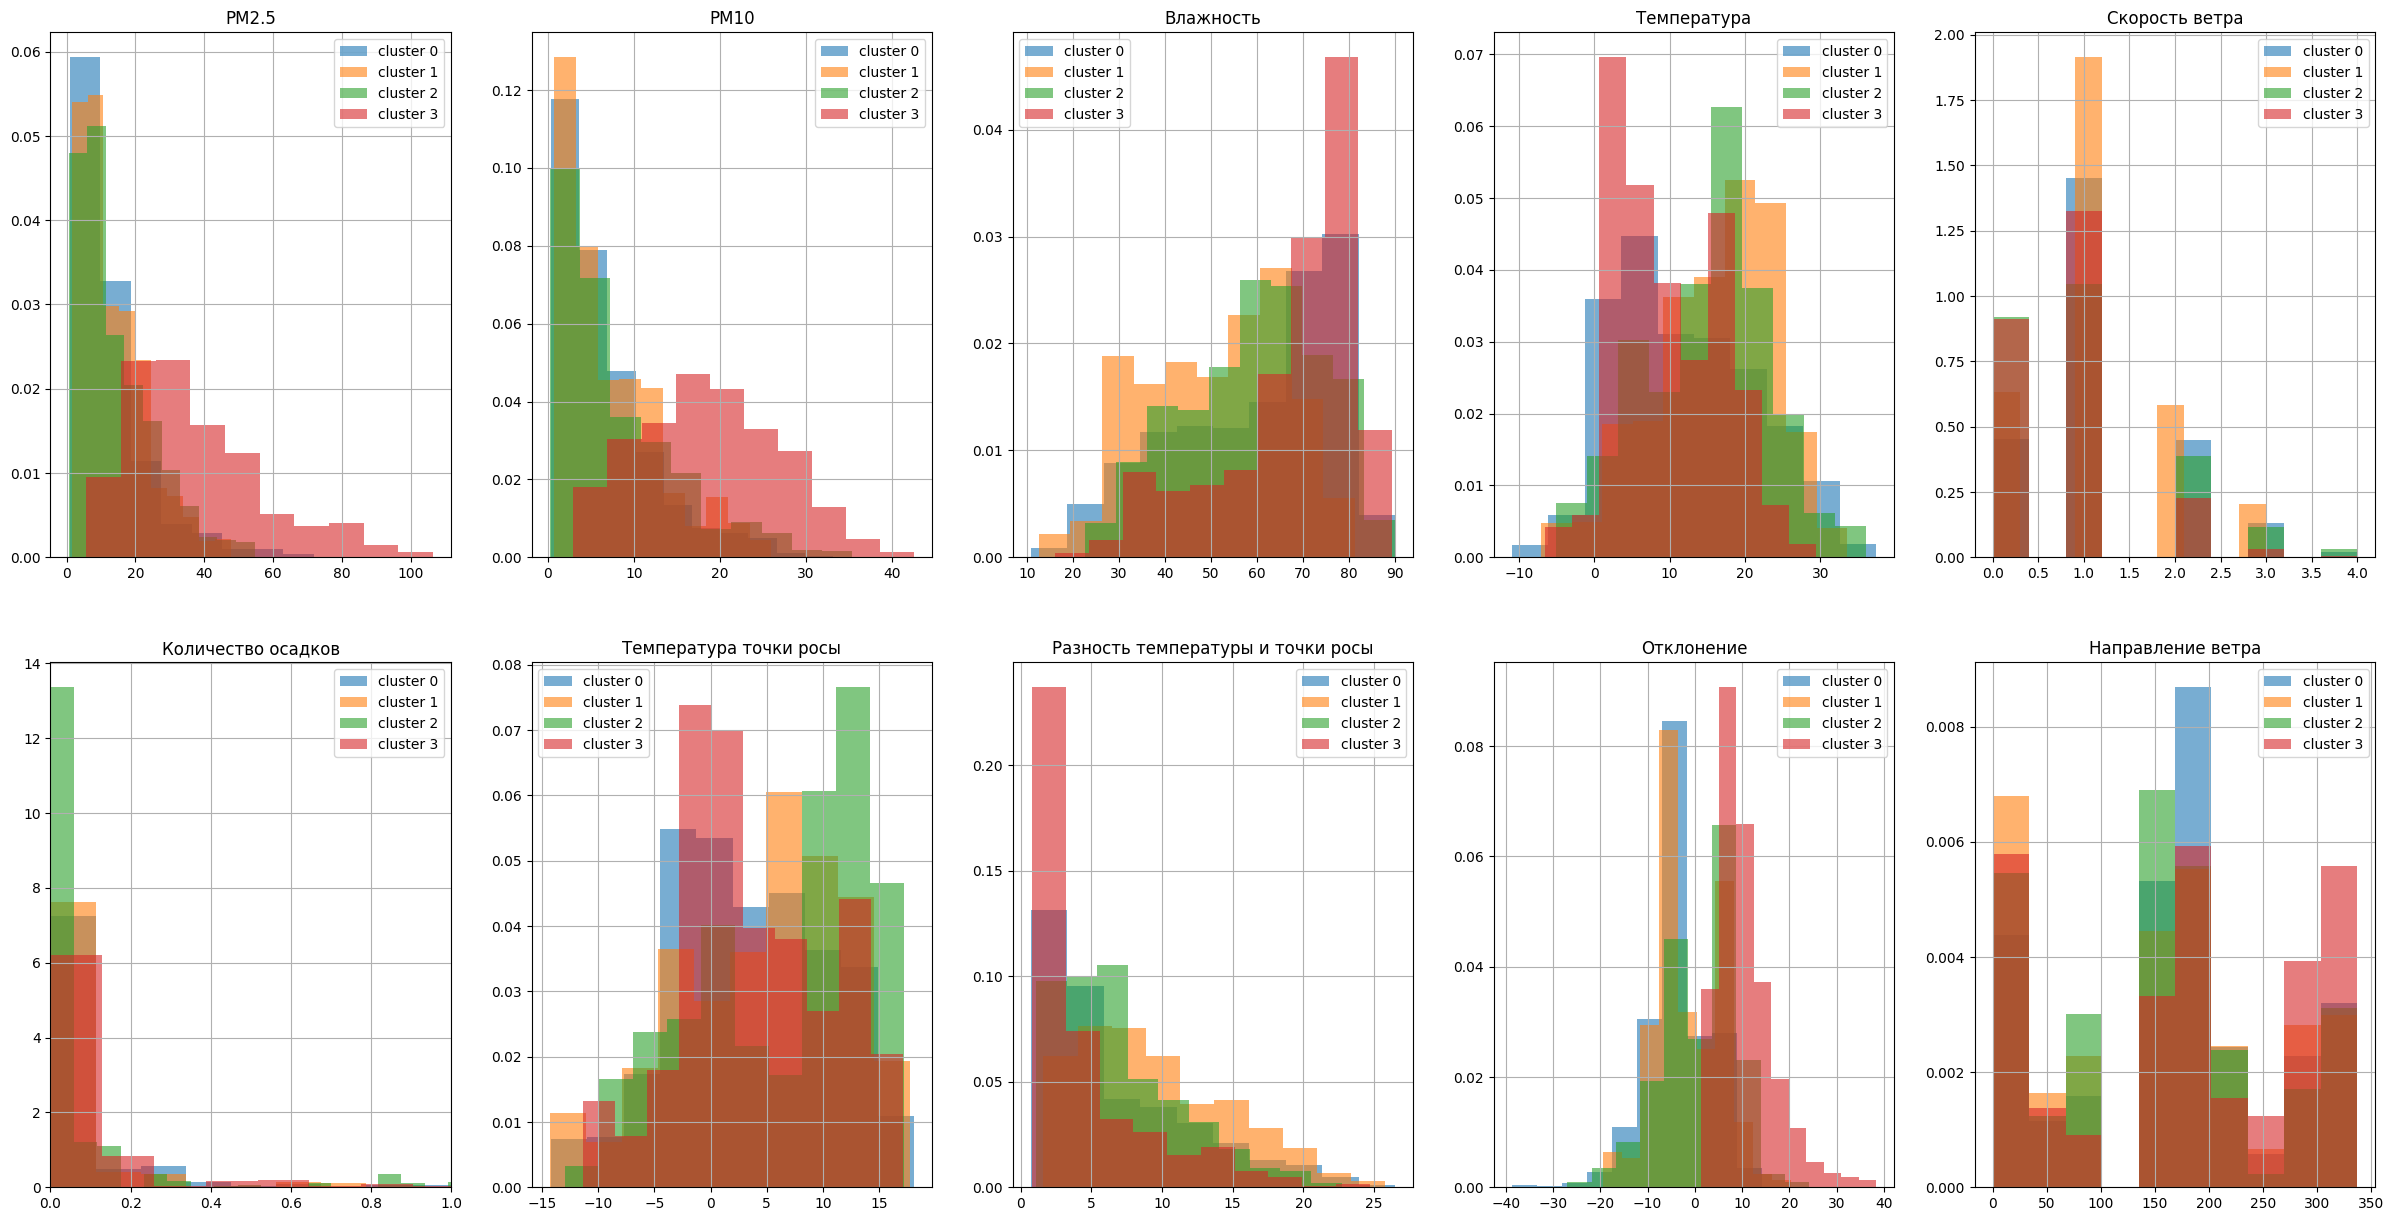
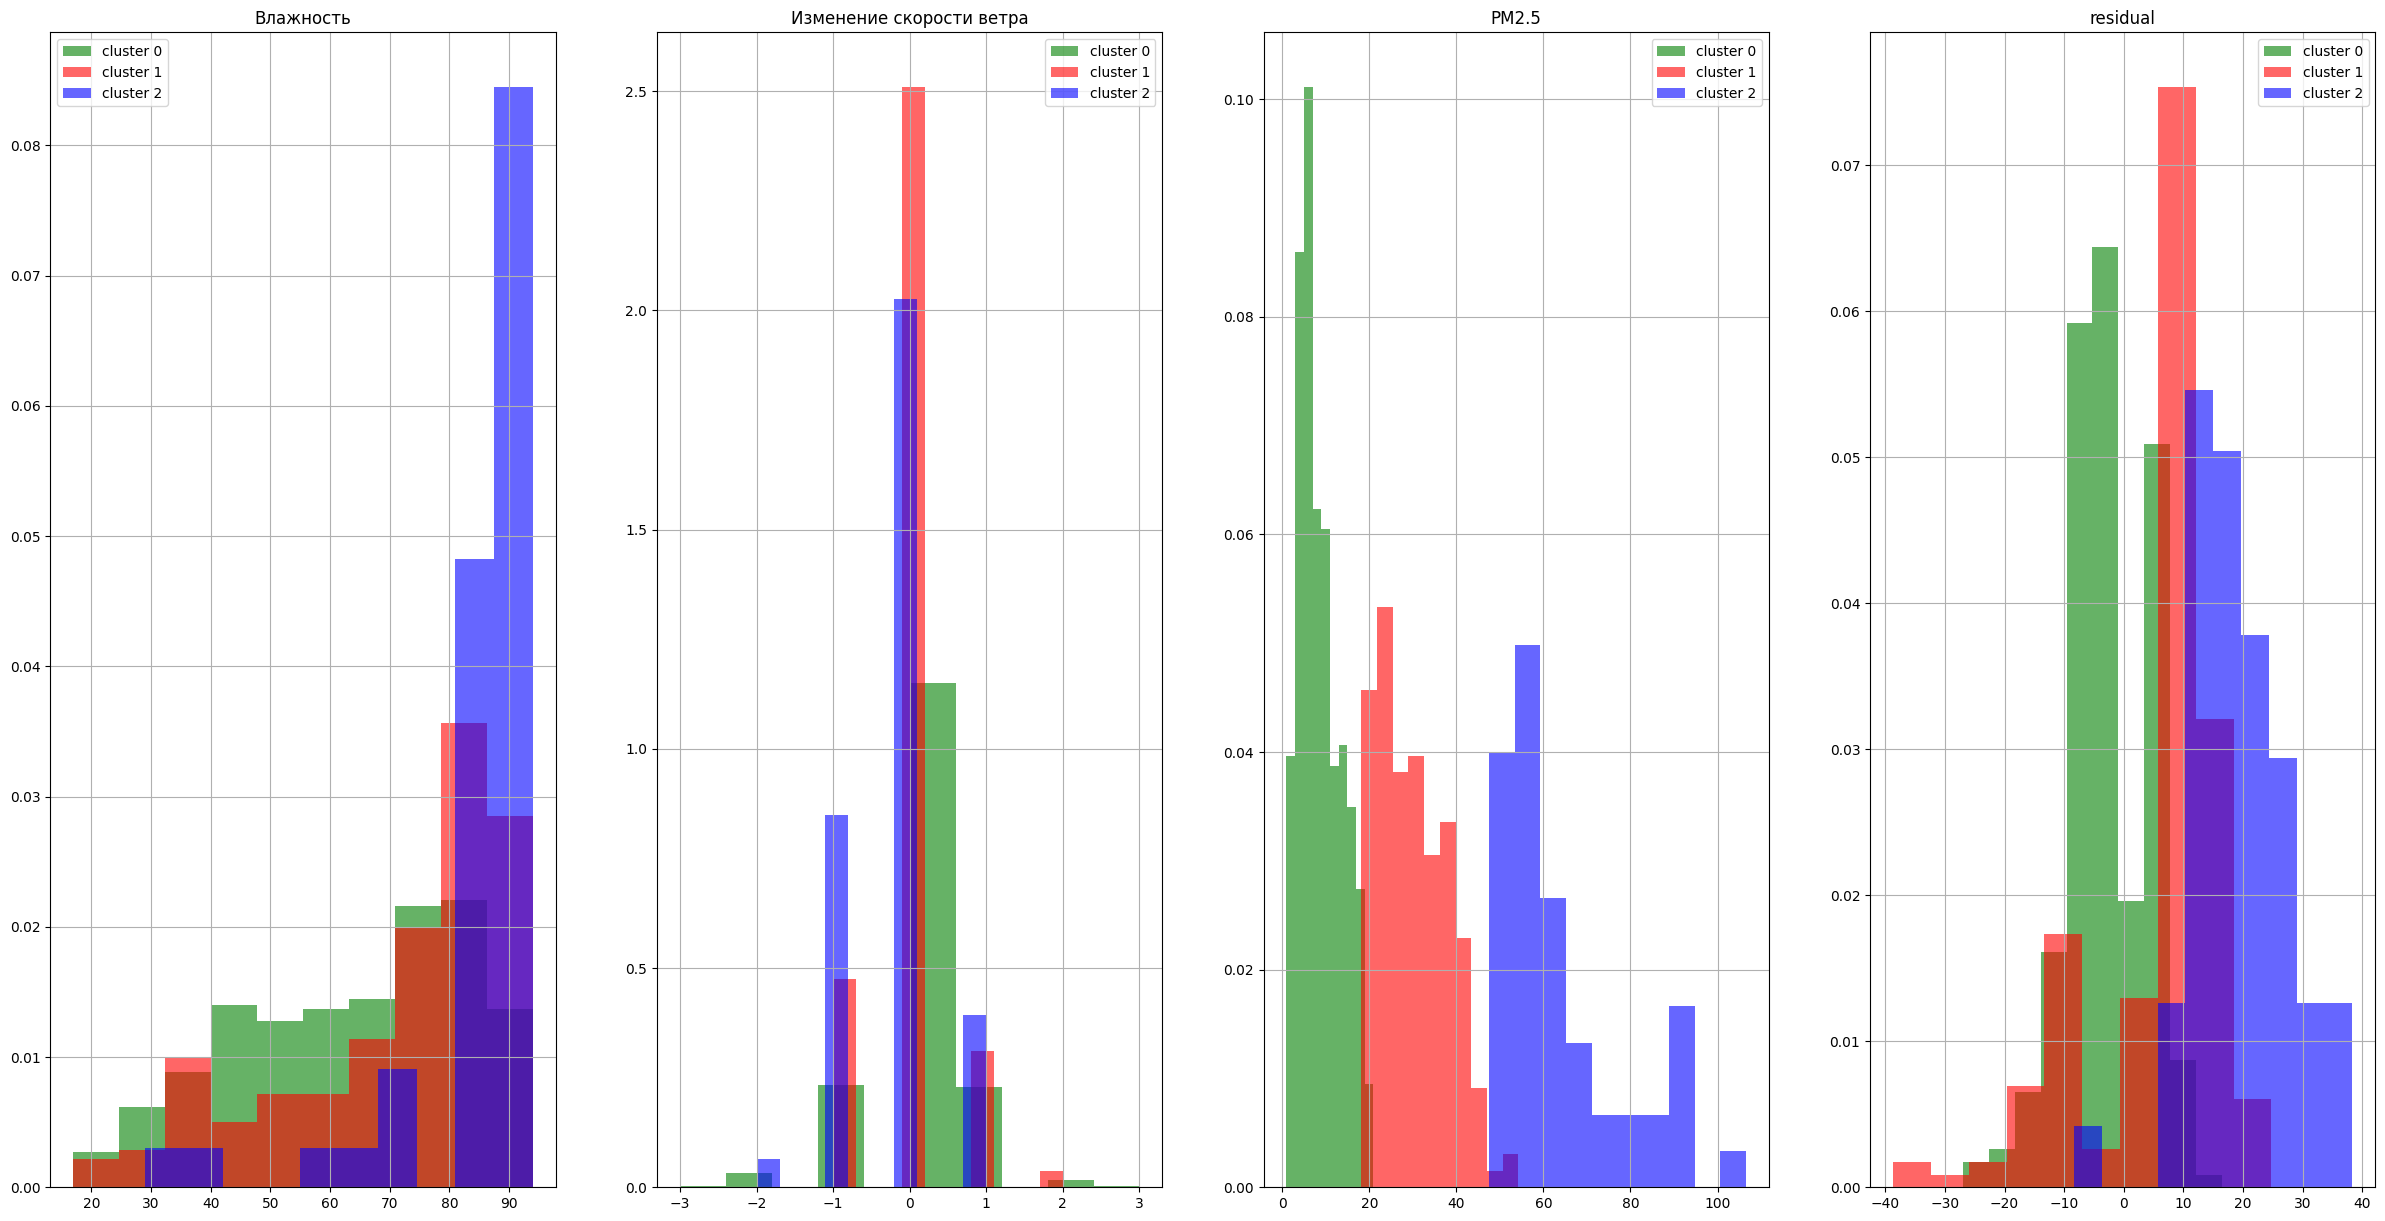
chage num_clustering and cluster dist. graph

diff --git a/src/model/extract_anomalies.py b/src/model/extract_anomalies.py
@@ -6,7 +6,6 @@ from typing import List
 from src.model.anom_clustering import Model, num_clusters, sensor_columns, meteo_columns
 from src.features.preproc_anom import prepare_sensors_data, prepare_meteo_data
 
-
 # ------ constants --------------------------------------------------------------------------------------
 data_file = 'DATA/processed/dataset.csv'
 dim_red_file = 'models/anomalies/dim_red.obj'
@@ -14,71 +13,39 @@ clustering_file = 'models/anomalies/clustering.obj'
 map_file = 'models/anomalies/cluster_map.obj'
 anomalies_file = 'DATA/processed/anomalies.csv'
 image_file = 'src/web/client/application/static/images/clusters_distribution.png'
+
+
 # ------ constants --------------------------------------------------------------------------------------
 
 
 def plot_distribution(anomalies):
+    colors = {0: 'g', 1: 'r', 2: 'b'}
     n_clast = num_clusters
-    f, axs = plt.subplots(2, 5, figsize=(30, 15))
+    f, axs = plt.subplots(1, 4, figsize=(30, 15))
     for i in range(n_clast):
-        anomalies[anomalies.cluster == i].P1_filtr_mean.hist(ax=axs[0, 0], alpha=0.6, label=f'cluster {i}',
-                                                             density=True)
-    axs[0, 0].set_title('PM2.5')
-    axs[0, 0].legend(loc='best')
+        anomalies[anomalies.cluster == i].hum_max.hist(ax=axs[0], alpha=0.6, label=f'cluster {i}',
+                                                       density=True, color=colors[i])
+    axs[0].set_title('Влажность')
+    axs[0].legend(loc='best')
 
     for i in range(n_clast):
-        anomalies[anomalies.cluster == i].P2_filtr_mean.hist(ax=axs[0, 1], alpha=0.6, label=f'cluster {i}',
-                                                             density=True)
-    axs[0, 1].set_title('PM10')
-    axs[0, 1].legend(loc='best')
+        anomalies[anomalies.cluster == i].wind_speed.hist(ax=axs[1], alpha=0.6, label=f'cluster {i}',
+                                                          density=True, color=colors[i])
+    axs[1].set_title('Изменение скорости ветра')
+    axs[1].legend(loc='best')
 
     for i in range(n_clast):
-        anomalies[anomalies.cluster == i].humidity_filtr_mean.hist(ax=axs[0, 2], alpha=0.6, label=f'cluster {i}',
-                                                                   density=True)
-    axs[0, 2].set_title('Влажность')
-    axs[0, 2].legend(loc='best')
+        anomalies[anomalies.cluster == i].P1.hist(ax=axs[2], alpha=0.6, label=f'cluster {i}',
+                                                  density=True, color=colors[i])
+    axs[2].set_title('PM2.5')
+    axs[2].legend(loc='best')
 
     for i in range(n_clast):
-        anomalies[anomalies.cluster == i].temperature_filtr_mean.hist(ax=axs[0, 3], alpha=0.6, label=f'cluster {i}',
-                                                                      density=True)
-    axs[0, 3].set_title('Температура')
-    axs[0, 3].legend(loc='best')
+        anomalies[anomalies.cluster == i].resid_max.hist(ax=axs[3], alpha=0.6, label=f'cluster {i}',
+                                                         density=True, color=colors[i])
+    axs[3].set_title('residual')
+    axs[3].legend(loc='best')
 
-    for i in range(n_clast):
-        anomalies[anomalies.cluster == i].wind_speed.hist(ax=axs[0, 4], bins=10, alpha=0.6, label=f'cluster {i}',
-                                                          density=True)
-    axs[0, 4].set_title('Скорость ветра')
-    axs[0, 4].legend(loc='best')
-
-    for i in range(n_clast):
-        anomalies[anomalies.cluster == i].prec_amount.hist(ax=axs[1, 0], bins=20, alpha=0.6, label=f'cluster {i}',
-                                                           density=True)
-    axs[1, 0].set_title('Количество осадков')
-    axs[1, 0].set_xlim([0, 1])
-    axs[1, 0].legend(loc='best')
-
-    for i in range(n_clast):
-        anomalies[anomalies.cluster == i].dew_point_temp.hist(ax=axs[1, 1], alpha=0.6, label=f'cluster {i}',
-                                                              density=True)
-    axs[1, 1].set_title('Температура точки росы')
-    axs[1, 1].legend(loc='best')
-
-    for i in range(n_clast):
-        anomalies[anomalies.cluster == i].dew_point_diff.hist(ax=axs[1, 2], alpha=0.6, label=f'cluster {i}',
-                                                              density=True)
-    axs[1, 2].set_title('Разность температуры и точки росы')
-    axs[1, 2].legend(loc='best')
-
-    for i in range(n_clast):
-        anomalies[anomalies.cluster == i].resid.hist(ax=axs[1, 3], alpha=0.6, label=f'cluster {i}', density=True)
-    axs[1, 3].set_title('Отклонение')
-    axs[1, 3].legend(loc='best')
-
-    for i in range(n_clast):
-        anomalies[anomalies.cluster == i].wind_direction.hist(ax=axs[1, 4], alpha=0.6, label=f'cluster {i}',
-                                                              density=True)
-    axs[1, 4].set_title('Направление ветра')
-    axs[1, 4].legend(loc='best')
     plt.savefig(image_file,
                 clear=True, bbox_inches='tight')
 
@@ -90,8 +57,9 @@ def extract_anom(data: pd.DataFrame, model: Model) -> (pd.DataFrame, List[pd.Dat
     for week in weeks[:-2]:
         clusters, anomalies = model.predict(week)
         results.append(clusters)
-        anom_data += anomalies
+        anom_data.append(anomalies)
     result = pd.concat(results, axis=0)
+    anom_data = pd.concat(anom_data, axis=0)
     return result, anom_data
 
 
@@ -107,9 +75,6 @@ def main():
         model = Model(pca, kmean, cluster_map)
     anomalies, anom_data = extract_anom(data, model)
     anomalies.to_csv(anomalies_file, index=False)
-    for i in range(len(anomalies)):
-        anom_data[i]['cluster'] = anomalies.iloc[i]['cluster']
-    anom_data = pd.concat(anom_data, axis=0)
     plot_distribution(anom_data)
 
 

diff --git a/src/model/anom_clustering.py b/src/model/anom_clustering.py
@@ -33,9 +33,10 @@ meteo_columns = ['temp_meteo', 'pres_meteo', 'hum_meteo', 'wind_direction', 'win
 sel_columns = ['P1_filtr_mean', 'P2_filtr_mean',
                'temperature_filtr_mean', 'humidity_filtr_mean', 'temp_meteo', 'pres_meteo', 'hum_meteo', 'wind_speed',
                'prec_amount', 'dew_point_temp', 'dew_point_diff', 'prec_time', 'wind_sin', 'wind_cos', 'wind_direction']
+features = ['resid_change', 'hum', 'temp', 'prec', 'wind_speed', 'wind_sin', 'wind_cos', 'P1']
 
 PCA_n_components = 3
-num_clusters = 4
+num_clusters = 3
 # ---------------------------------------------------------------------------------------------------------------------
 
 kmean = KMeans(n_clusters=num_clusters, random_state=42)  # model for clustering
@@ -111,6 +112,12 @@ def get_anomaly_features(anom_list: List[pd.DataFrame]) -> pd.DataFrame:
                             i.loc[i.resid.abs().idxmin()].wind_sin for i in anom_list]
     anomdata['wind_cos'] = [i.loc[i.resid.abs().idxmax()].wind_cos -
                             i.loc[i.resid.abs().idxmin()].wind_cos for i in anom_list]
+    anomdata['wind_dir_change'] = [i.loc[i.resid.abs().idxmax()].wind_direction -
+                                   i.loc[i.resid.abs().idxmin()].wind_direction for i in anom_list]
+    anomdata['resid_max'] = [i.loc[i.resid.abs().idxmax()].resid for i in anom_list]
+    anomdata['P1'] = [i.loc[i.resid.abs().idxmax()].P1_filtr_mean for i in anom_list]
+    anomdata['hum_max'] = [i.loc[i.resid.abs().idxmax()].hum_meteo for i in anom_list]
+    anomdata['prec_max'] = [i.loc[i.resid.abs().idxmax()].prec_amount for i in anom_list]
     return anomdata
 
 
@@ -128,8 +135,8 @@ class Model:
         anom_features = get_anomaly_features(anomalies_list)
 
         # dimension reduction
-        self.reduction.fit(anom_features)
-        x = self.reduction.transform(anom_features)
+        self.reduction.fit(anom_features[features])
+        x = self.reduction.transform(anom_features[features])
         pca_score = 1 - self.reduction.explained_variance_ratio_[-1]
 
         # clustring
@@ -165,16 +172,17 @@ class Model:
         data = self._prepare_data(data)
 
         anomalies = anom_detector(data)
-        anom_fetures = get_anomaly_features(anomalies)
+        anom_features = get_anomaly_features(anomalies)
 
-        x = self.reduction.transform(anom_fetures)
+        x = self.reduction.transform(anom_features[features])
         clusters = self.clustering.predict(x)
 
         start_dates = [anomalies[i].index[0].to_pydatetime() for i in range(len(anomalies))]
         end_dates = [anomalies[i].index[-1].to_pydatetime() for i in range(len(anomalies))]
         result = pd.DataFrame(data={'start_date': start_dates, 'end_date': end_dates, 'cluster': clusters})
         result['cluster'] = result.cluster.map(self.cluster_map)
-        return result, anomalies
+        anom_features['cluster'] = result.cluster
+        return result, anom_features
 
 
 def main():

diff --git a/src/web/client/application/routes.py b/src/web/client/application/routes.py
@@ -278,7 +278,7 @@ def anomalies_graph():
 
     ).interactive()
 
-    range_ = ['#78add2', '#ffb26e', '#80c680', '#e67d7e']
+    range_ = ['red', 'green', 'blue', '#7D3C98']
     domain = [0, 1, 2, 3]
 
     bar = alt.Chart(data=anom_df).mark_bar().encode(
